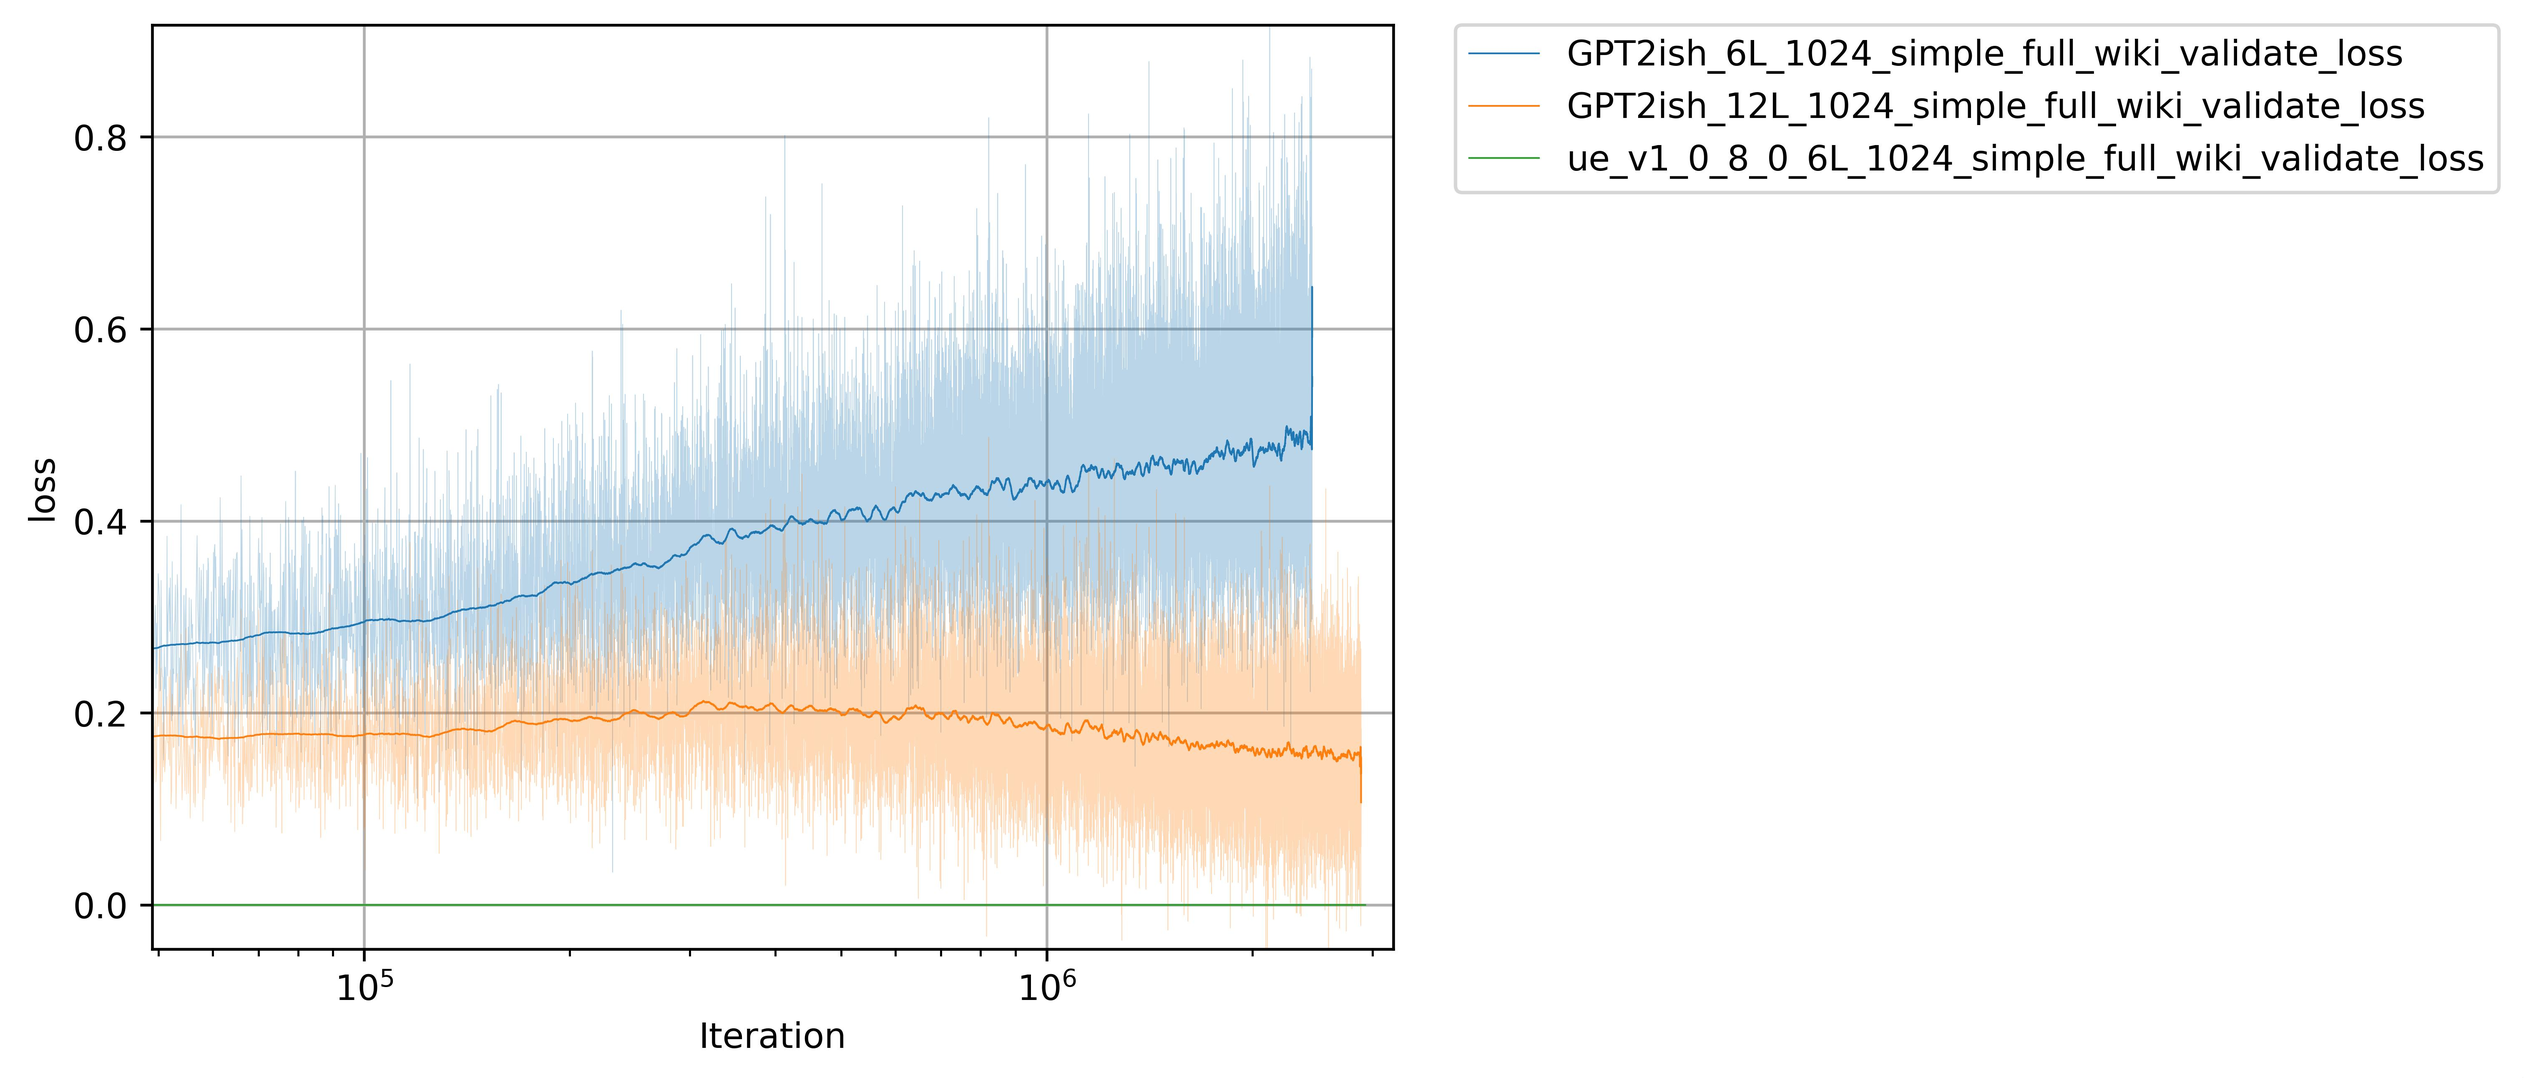
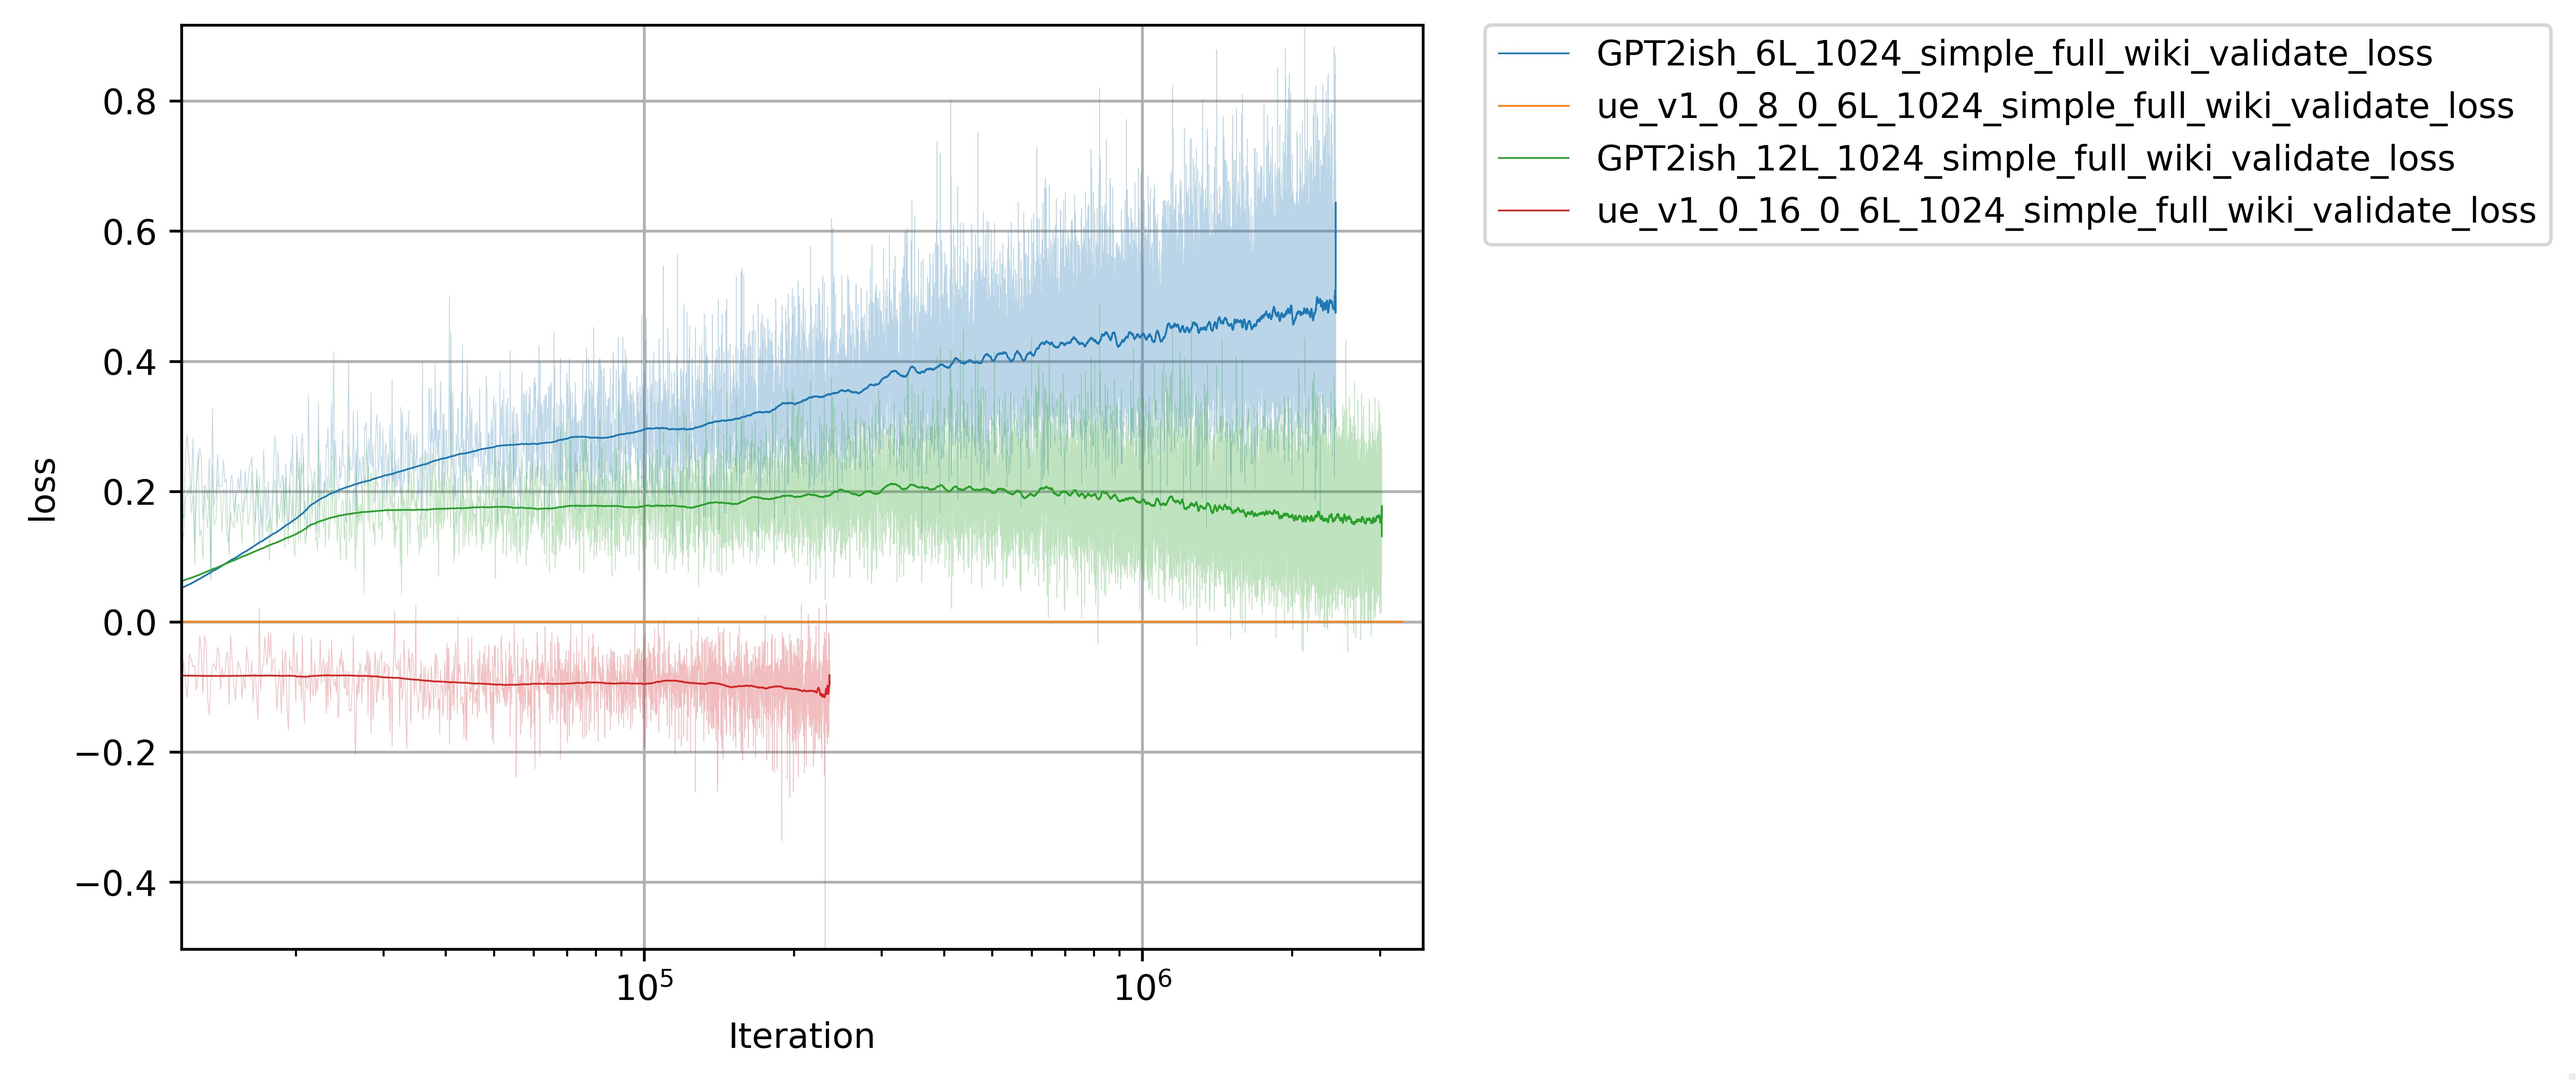
update to training plots/readme

diff --git a/lmplay/__init__.py b/lmplay/__init__.py
@@ -1,5 +1,5 @@
 from lmplay.exp.embeddings.unified_embeddings_v1_0.model import ModelRunner as UE8xModelRunner
-from lmplay.exp.embeddings.unified_embeddings_v1_0_1.model import ModelRunner as UE16xModelRunner
+from lmplay.exp.embeddings.unified_embeddings_v1_1.model import ModelRunner as UE16xModelRunner
 from lmplay.exp.attn_norm.normv.model import ModelRunner as NormVModelRunner
 from lmplay.base.encoder.model import ModelRunner as GPT2ishModelRunner
 from lmplay.base.base_model import LMRunnerBase

diff --git a/lmplay/exp/embeddings/unified_embeddings_v1_1/model.py b/lmplay/exp/embeddings/unified_embeddings_v1_1/model.py
@@ -18,7 +18,7 @@ class ModelRunner(LMRunnerBase):
     for k,v in parameters.items():
       if k not in model_args:
         model_args[k] = v
-    model = GPT2(for_train=self.for_train, keep_embed_on_cpu=True, **model_args)
+    model = GPT2(for_train=self.for_train, keep_embed_on_cpu=True, version="1.1", **model_args)
     if model_weights is not None:
       missing, unexpected = model.load_state_dict(model_weights, strict=strict)
       model.to(device)

diff --git a/README.md b/README.md
@@ -1,5 +1,7 @@
-# lmplay
-This is intended to be a playground to make it easy to try crazy things. It is rough, it is unfinished and, like the best things in life, it is messy.
+# LMPlay
+tldr - Check out the Unified Embeddings experiment.
+
+LMPlay is intended to be a playground to make it easy to try crazy things. It is rough, it is unfinished and, like the best things in life, it is messy.
 I have tried to create a structure in this library that makes it easy to try things and compare results.
 Everything here is targeted at quick testing and turnaround on commodity hardware. The two primary targets are mac M2 and a NVIDIA 3060 with 12GB ram.
 The structure of the project is designed for copy/paste/change, not to provide a stable prod library. Most of the training code has been extracted but the model has been left wide open.
@@ -9,21 +11,21 @@ A note of caution here, because this is a playground it the code here likely wil
 
 ## The experiments
 I have been playing with ideas 'on the side' for a while now and several show promise. The first one is something I call 'Unified Embeddings'.
-### Experiment 1: Unified Embeddings
+### Experiment 1: (8x) Unified Embeddings (lmp_trainer --exp ue8x)
 Unified Embeddings provide a better way to train embeddings with no additional inference costs or model structure changes however there is a training memory penalty.
-The basic idea is to take a very large embedding and run it through a ff layer to generate the output embedding during training. 
-For production inference all vocab embeddings can be generated and stored and the embedding training weights can be tossed.
-The limited testing I have done so far looks quite promising:
-
+The basic idea is to use a very large training embedding and run it through a ff layer to generate the output embedding during training. 
+For production inference all vocab embeddings should be pre-generated and stored and the embedding training weights can be tossed. The model will do this with the 'for_prod=True' parameter set. Similarly, if an existing well trained model is modified to replace normal embeddings with a unified embedding class then on weigth load it will train a set of training embeddings to then learn from. In testing, with the right control of learning rate, a model can switch to unfied embeddings quickly and start getting gains but in general it is best to start training with them instead of 'bolting them on' after. 
+The limited testing I have done so far looks quite promising
+### Experiment 1.1: Large (16x) Unified Embeddings with mixed CPU/GPU training (lmp_trainer --exp ue16x)
+This is the same basic code as the first UE experiment but the training embeddings are twice as large at 16x the hidden size. This increase in size makes training a challenge if embeddings are left on the GPU. To overcome this the training embeddings are left on the CPU along with the first integration layer. This allows a minimum memory transfer on each training sample. With larger mini-batch sizes the performance hit is about 50%, which isn't great, but is acceptable. If you have the GPU memory to spare just keep them in memory. The lesson from this test is that larger is better. I haven't found the upper bound yet.
 ![](results/ue_log_loss.jpg)
-This graph shows a 6 layer UE model beating a 12 layer baseline model, at least in initial training. The long term benefits are still unknown but these results are promising. The 6 layer UE model here has exactly the same prod inference costs/structure/weights/etc as a baseline 6 layer GPTish model. Only during training does it need extra logic/parameters. Additionally, the larger the UE the better. A 16x UE significantly outperforms an 8x one. Those results will be shown eventually (based on GPU availability).
+This graph shows a 6 layer UE model beating a 12 layer baseline model, at least in initial training. The long term benefits are still unknown but these results are promising. The 6 layer UE model here has exactly the same prod inference costs/structure/weights/etc as a baseline 6 layer GPTish model. Only during training does it need extra logic/parameters. Additionally, the larger the UE the better. UE at 16x 1_1 is clearly beating UE 1_0 at 8x.
 The diff plot shows performance better:
 ![](results/ue_log_diff_loss.jpg)
-Here you can clearly see how much better the 6 layer UE models are over the 6 and 12 layer baseline models. It is still gaining ground on the 6 while the 12 was slowly catching back up but looks like it has stalled. Clearly, longer runs are needed, but the results appear to be getting better as time goes on. I will update this plot as runs continue.
-
-### Experiment 2: Value Norm
-Attn is amazing. But it may have a simple improvement to make it even better. The value projection applies to all elements of a sequence and softmax sums them all together depending on how k&q rank them. 
-The value projection has a hard job, it not only needs to create a useful value, but it needs to avoid making uninteresting values accidentally large which would negate the ranking that the k&q came up with. There is a simple way to take this side-job away from the v projection, use LayerNorm. Now the v projection can focus on emphasizing the important value aspects of the sequence and not accidentally destroy the ranking.
+Here you can clearly see how much better the 6 layer UE models are over the 6 and 12 layer baseline models. It is still gaining ground on the 6 and even the 12 layer looks like the gap may be widening. Additionally, it is easy to see how much better the UE 1_1 is. Clearly, longer runs are needed, but the results appear to be getting better as time goes on. I will update this plot as runs continue.
+### Experiment 2: Value Norm (lmp_trainer --exp normv)
+Attn is amazing, but there may be simple improvements that can make it even better. One area to consider is the value projection. The value projection applies to all elements of a sequence and softmax sums them all together depending on how k&q rank them in order to get the final value. 
+The value projection has a hard job, it not only needs to create a useful value but it needs to avoid making uninteresting values accidentally large which would negate the ranking that the k&q came up with. There is a simple way to take this side-job away from the v projection, use LayerNorm. Now the v projection can focus on emphasizing important value aspects of the sequence and not accidentally destroy the ranking.
 
 At least that is the theory/idea that led me to test it. The results are pretty clear though. While not as large an impact as UEs, adding a simple layer norm is an almost no cost change to multi-head attn and it looks like it provides solid value, at least in early training. Adding layer norm to k or q however appears to have a negative impact (not shown) but more testing may find ways to improve those too.
 ![](results/nv_log_diff_loss.jpg)
@@ -32,7 +34,7 @@ I am slowly 'cleaning up' many projects that I have been working on and intend t
 
 I picked UEs and value norm first since they are very easy to understand and implement. I am planning on releasing one every couple weeks for the next couple months.
 
-## GPT2ish
+## GPT2ish (lmp_trainer --exp gpt2ish)
 The baseline encoder I am using as the reference model is based on GPT2. Any flaws in it are my own and you shouldn't take this as reference code for a GPT2 implementation.
 
 ## Baseline transformer code
@@ -55,9 +57,9 @@ This is a very basic inference engine with the absolute minimum code needed to t
 The code is implemented in `lmplay.generate.__main__`
 
 ### lmp_plotstats
-It is all about the graphs right? This will take outputs from different runs and put them all in the same plot files. Two basic stats are plotted, accuracy and loss.
+It is all about the graphs right? This will take outputs from different runs and put them all in the same plot files. Two basic stats are plotted, accuracy and loss. 
 For each of these there are two different kinds of graphs, a regular log plot and a 'diff' plot where the longest run is used as the baseline for the other runs. This diff view makes it much easier to compare the performance of different models/runs.
-The code is implemented in `lmplay.stats.__main__`.
+The code is implemented in `lmplay.stats.__main__`. It is messy and does some bad math to make things look prettier so this is likely to change a bit in the future.
 
 ## Usage
 ```
